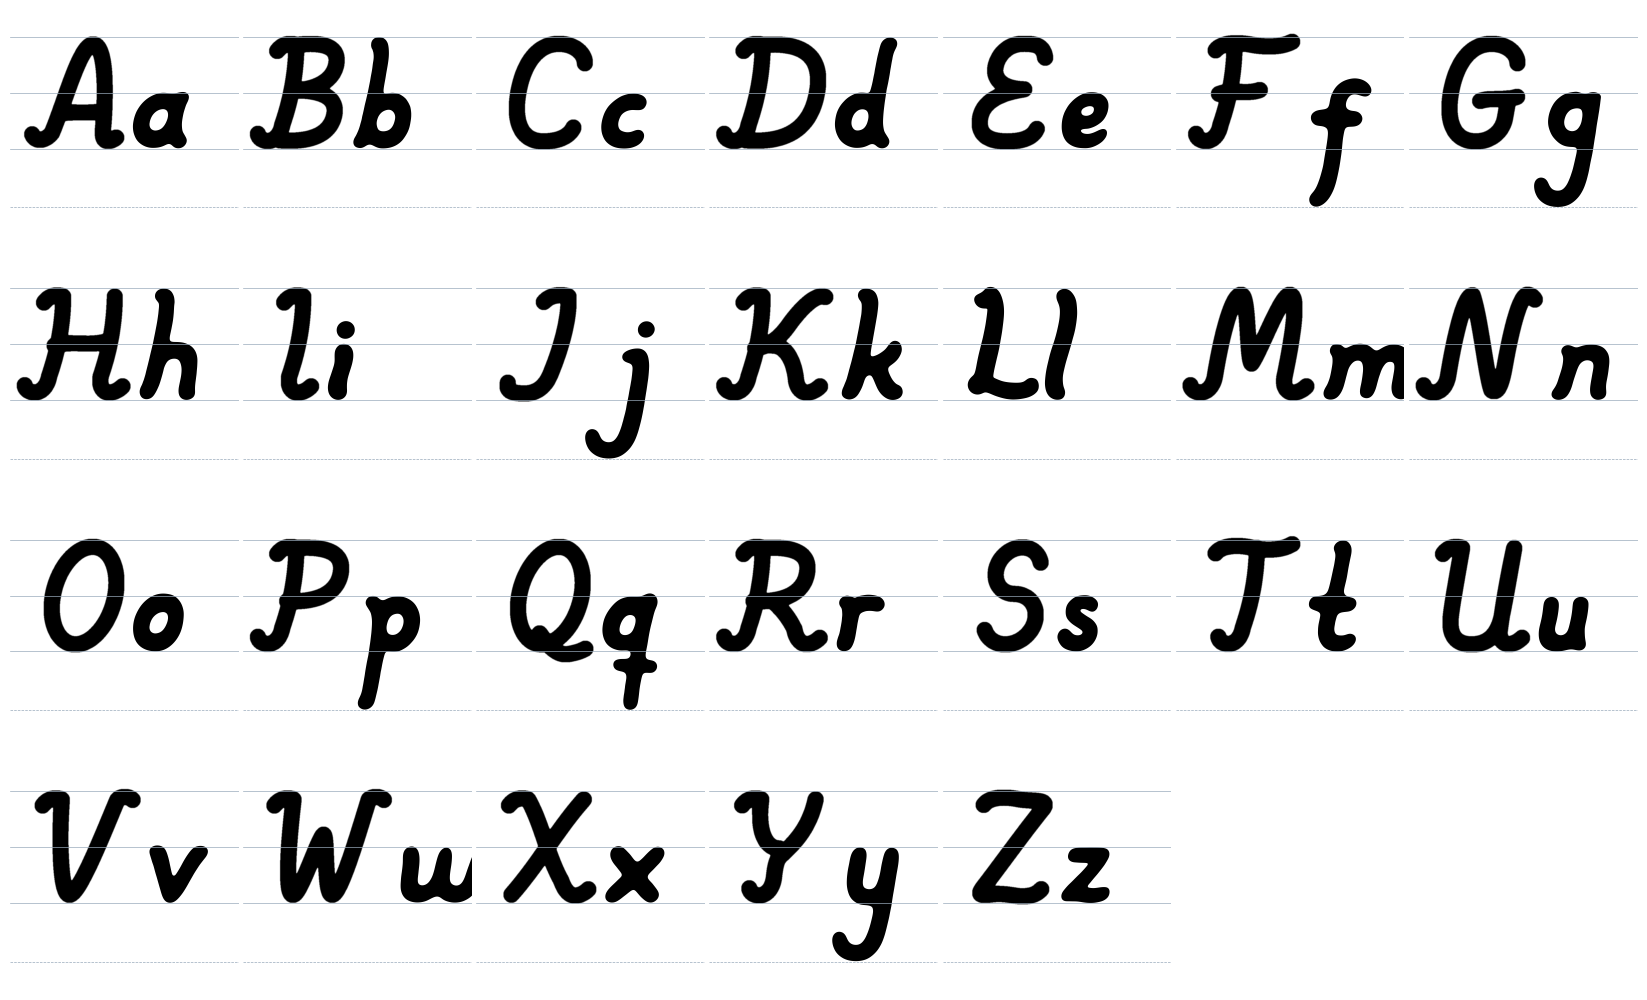
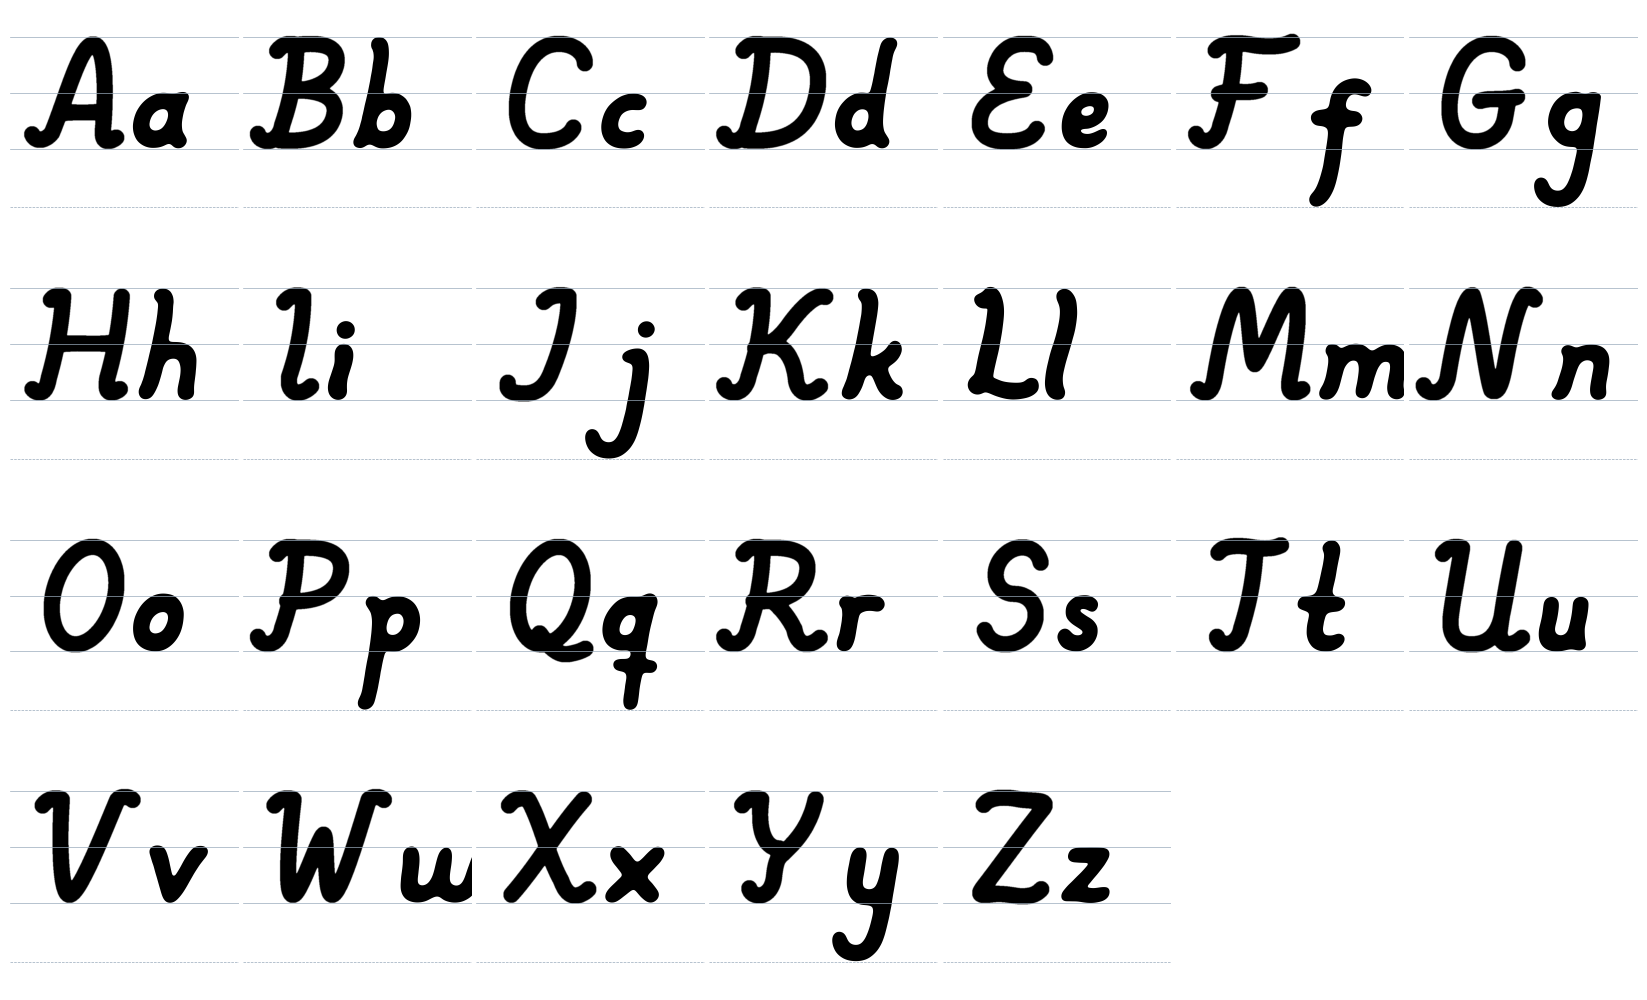
Mjukare och bredare H och M, kortare högerarm på T, optiskt avstånd i namnen
Claude-Session: https://claude.ai/code/session_01G3Fa1qrTuHzte3kfXkaDtX

diff --git a/bokstaver/versaler.py b/bokstaver/versaler.py
@@ -74,6 +74,17 @@ def svans(x, y0=0.8, lut=0.0):
                  ((x1 + 0.38, LO - 0.01), (x1 + 0.46, LO + 0.04), (x1 + 0.52, LO + 0.1)))
 
 
+def kort_snirkel(x, y0=0.8):
+    """Kort, mjuk avslutning åt vänster (spegling av svans)."""
+    return kedja((x, y0), ((x, LO + 0.08), (x - 0.1, LO - 0.04), (x - 0.28, LO - 0.02)),
+                 ((x - 0.38, LO - 0.01), (x - 0.46, LO + 0.04), (x - 0.52, LO + 0.1)))
+
+
+def kort_entre(x, y=HI):
+    """Kort, mjuk insväng upptill."""
+    return kedja((x - 0.42, y - 0.12), ((x - 0.32, y + 0.05), (x - 0.13, y + 0.05), (x, y)))
+
+
 def snirkel(x, y0=0.85, lut=0.0):
     """Fot som mjukt svänger ut åt vänster, som nedre svängen på ditt L."""
     x1 = x + lut * (y0 - LO - 0.1)
@@ -160,7 +171,11 @@ def G():
             vag((1.35, 1.7), (2.65, 1.85), 0.05)]
 
 def H():
-    return stapel(0.35, fot="snirkel") + stapel(2.2, topp=False, fot="flick") + [vag((0.35, 1.95), (2.2, 2.1), 0.07)]
+    v, h = 0.35, 2.45
+    return [kort_entre(v), linje((v, HI), (v, 0.8), 0.08), kort_snirkel(v, 0.8),
+            linje((h, HI), (h, 0.8), 0.08), svans(h, 0.8),
+            vag((v + 0.1, 1.98), (h + 0.06, 2.06), 0.04)]
+
 
 def I():
     return stapel(0.6, fot="flick")
@@ -178,12 +193,14 @@ def K_():
             kedja((0.95, 1.95), ((1.45, 2.0), (1.85, 1.45), (2.05, 0.8))), flick(2.05, 0.8, 0.2)]
 
 def M():
-    return [snirkel(0.35, 0.85),
-            kedja((0.35, 0.85), ((0.33, 2.3), (0.45, HI + 0.08), (0.78, HI + 0.06)),
-                  ((1.05, HI + 0.04), (1.35, 1.65), (1.58, 1.3)),
-                  ((1.8, 1.65), (2.2, HI + 0.06), (2.52, HI + 0.06)),
-                  ((2.85, HI + 0.06), (2.9, 2.4), (2.85, 0.8))),
-            flick(2.85, 0.8)]
+    v, h = 0.35, 3.05
+    return [kort_snirkel(v, 0.8),
+            kedja((v, 0.8), ((v - 0.02, 2.3), (v + 0.1, HI + 0.06), (v + 0.45, HI + 0.06)),
+                  ((0.78 + 0.3, HI + 0.05), (1.45, 1.6), (1.7, 1.28)),
+                  ((1.95, 1.6), (2.3, HI + 0.05), (h - 0.45, HI + 0.06)),
+                  ((h - 0.1, HI + 0.06), (h + 0.02, 2.3), (h, 0.8))),
+            svans(h, 0.8)]
+
 
 def N():
     return [snirkel(0.35, 0.85),
@@ -222,9 +239,10 @@ def S():
 
 
 def T():
-    return [kedja((-0.1, HI - 0.2), ((0.05, HI + 0.08), (0.6, HI + 0.14), (1.2, HI)),
-                  ((1.8, HI - 0.12), (2.3, HI - 0.06), (2.6, HI + 0.14))),
-            linje((1.35, HI), (1.35, 0.85), 0.12), snirkel(1.35, 0.85)]
+    return [kedja((0.0, HI - 0.18), ((0.12, HI + 0.08), (0.6, HI + 0.12), (1.2, HI + 0.02)),
+                  ((1.6, HI - 0.04), (1.95, HI - 0.04), (2.2, HI + 0.1))),
+            linje((1.3, HI), (1.3, 0.85), 0.1), snirkel(1.3, 0.85)]
+
 
 def U():
     return [entre(0.35),

diff --git a/bokstaver/namn.py b/bokstaver/namn.py
@@ -16,7 +16,8 @@ from versaler import bygg_alla, gemen_polygoner, GEMENER, DIAKRIT, PRICK_Y, PRIC
 
 YMIN, YMAX = -2.6, 5.6
 H = int(round((YMAX - YMIN) / RUT))
-MELLAN = 0.32
+MELLAN = 0.45   # optiskt medelavstånd i x-höjdszonen
+MINST = 0.12    # minsta tillåtna avstånd
 NAMN = ["Ebba", "Åsa", "Örjan", "Maja", "Sven", "Greta", "Hugo", "Ida", "Kalle", "Nils",
         "Tove", "Wilma", "Felix", "Juno", "Rut", "Vera", "Bo", "Cecilia", "Pia", "Yrsa",
         "Leo", "Ulla", "Theo", "Olle", "Zelda", "Xenia", "Quinn", "Dan"]
@@ -69,9 +70,13 @@ def satt_ihop(glyfer):
     for g in glyfer[1:]:
         hoger = np.where(rad.any(1), rad.shape[1] - 1 - np.argmax(rad[:, ::-1], 1), -10 ** 6)
         vanster = np.where(g.any(1), np.argmax(g, 1), 10 ** 6)
-        gap = int(MELLAN / RUT)
-        # förskjutning så att minsta avståndet blir gap
-        skift = int(np.max(hoger - vanster)) + gap + 1
+        # 1) får aldrig komma närmare än MINST någonstans
+        hard = int(np.max(hoger - vanster)) + int(MINST / RUT)
+        # 2) optiskt: medelavståndet i x-höjdszonen ska bli MELLAN
+        zon = slice(int((0.3 - YMIN) / RUT), int((1.7 - YMIN) / RUT))
+        b = (hoger[zon] > -10 ** 5) & (vanster[zon] < 10 ** 5)
+        mjuk = int(np.mean((hoger[zon] - vanster[zon])[b])) + int(MELLAN / RUT) if b.any() else hard
+        skift = max(hard, mjuk)
         ny = np.zeros((H, max(rad.shape[1], skift + g.shape[1])), bool)
         ny[:, :rad.shape[1]] |= rad
         ny[:, skift:skift + g.shape[1]] |= g
